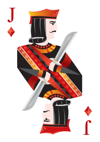
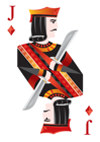
Fix the cards

diff --git a/scripts/card.js b/scripts/card.js
@@ -251,7 +251,8 @@ var CardHelper =
 			var cards = player.hand;
 			for (var index in cards)
 			{
-				$(hand).append('<li><img src="' + CardHelper.deck_src + 'back.png" /></li>');
+				//$(hand).append('<li><img src="' + CardHelper.deck_src + 'back.png" /></li>');
+				$(hand).append('<li><img src="' + cards[index].image + '" /></li>');
 			}
 			$(parent).append(hand);
 		}

diff --git a/css/gamearea.css b/css/gamearea.css
@@ -15,6 +15,17 @@
 #gamearea li.selected
 {
 	border: 2px solid #2F74D0;
+	-webkit-border-radius: 7px;
+	-moz-border-radius: 7px;
+	border-radius: 7px;
+}
+
+#gamearea ul.player_hand img
+{
+	border: 1px solid #736F6E;
+	-webkit-border-radius: 7px;
+	-moz-border-radius: 7px;
+	border-radius: 7px;
 }
 
 #gamearea #north, #gamearea #west, #gamearea #east, #gamearea #south
